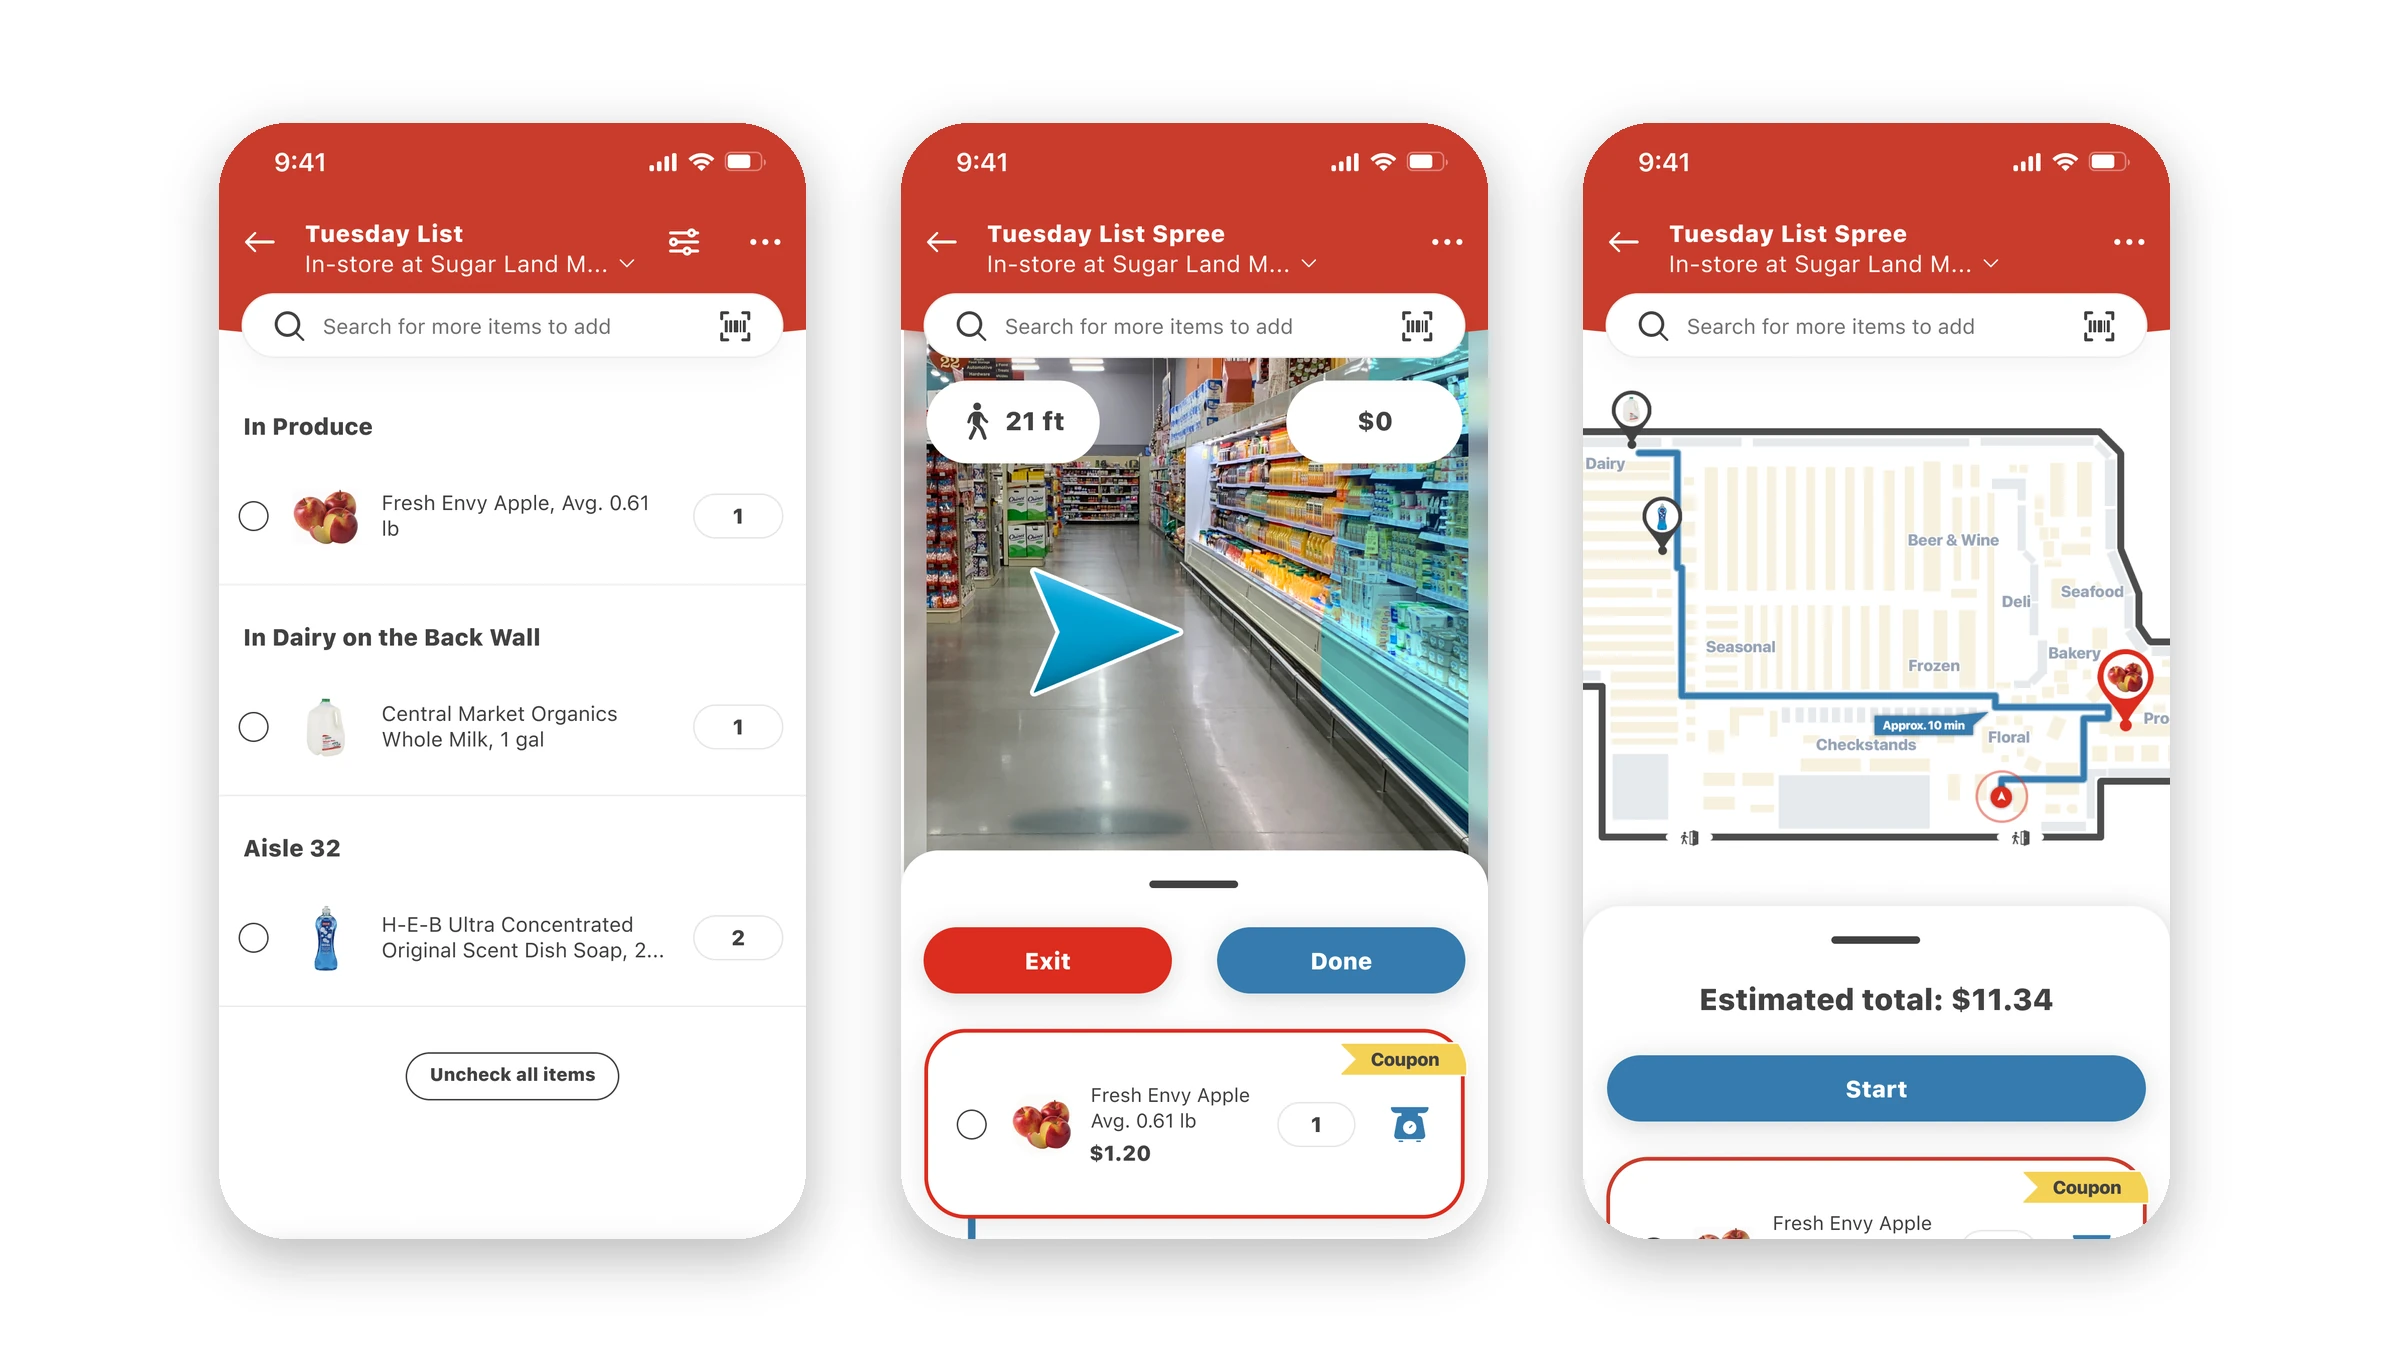
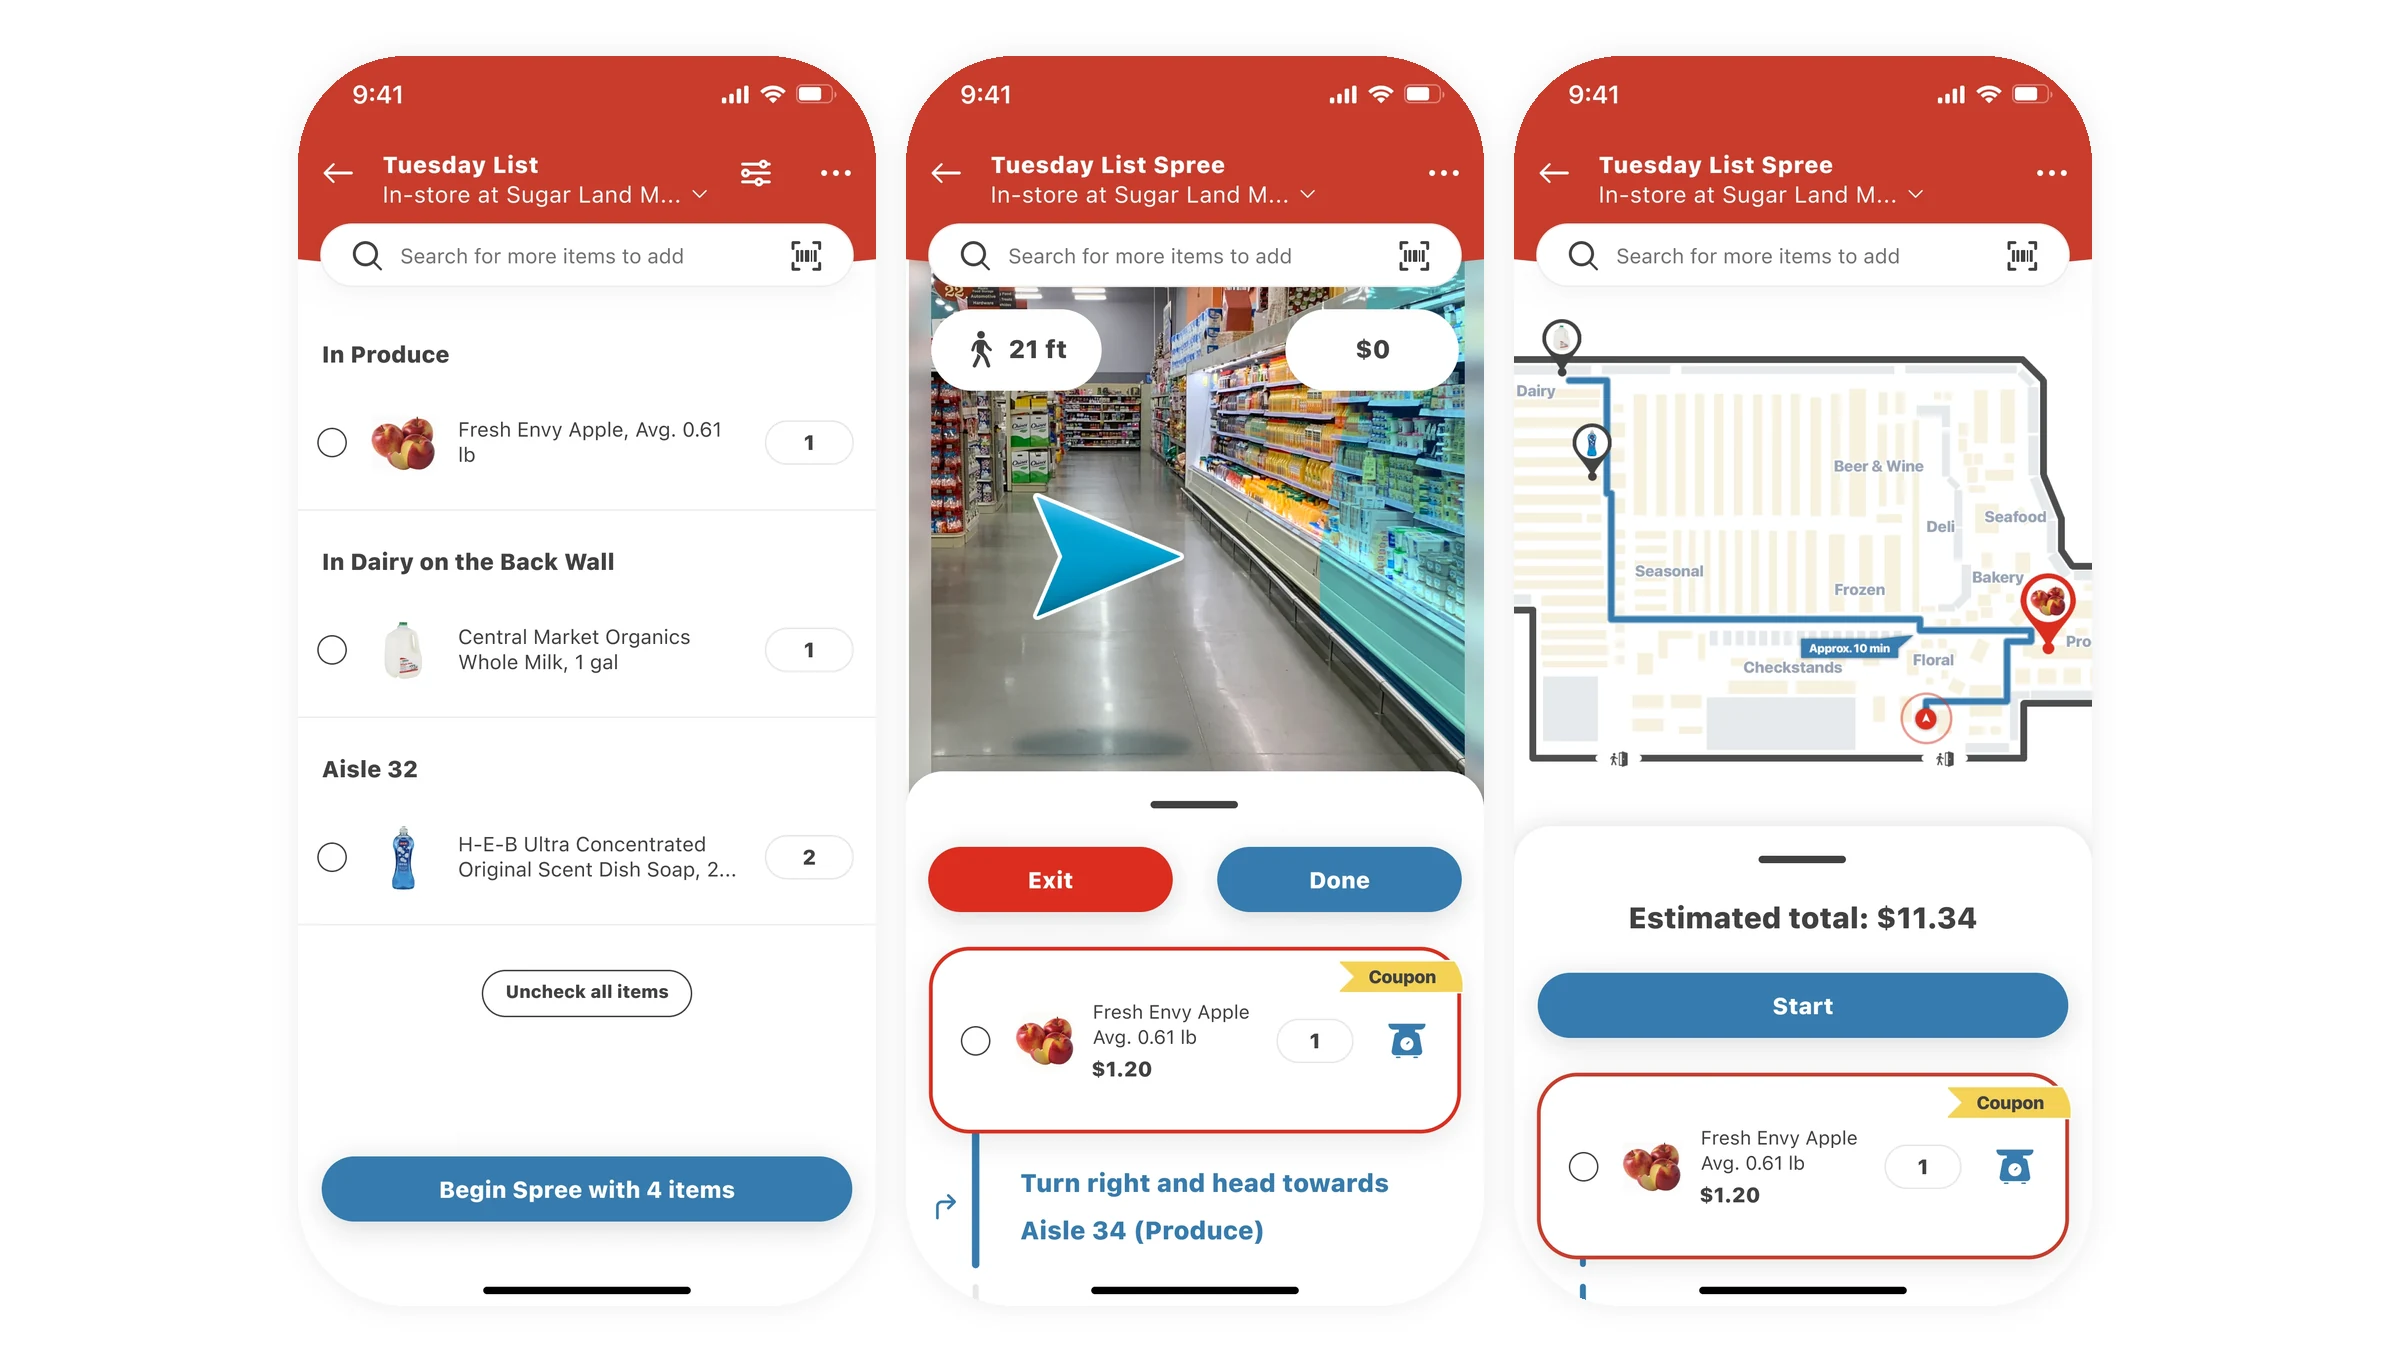
Stop cutting the bottom off the H-E-B screens
The crop was in the file, not in the CSS. cover.webp is 2390x1362, which
is the 1195/681 panel frame exactly, so object-cover trims nothing --
the composite simply laid its phones out 1405px tall on a 1362px canvas
and let them run off the bottom. Measured: 226px missing from each of
the three.

What that took off was not empty space. The first screen lost "Begin
Spree with 4 items", which is the whole point of a shopping list ready
to shop, and the second lost "Turn right and head towards Aisle 34",
which is the turn-by-turn instruction the camera view exists to show.
Both screens were chosen for the thing the crop removed.

Recomposed from the full-resolution screens that were already in the
repo -- list, route and total, 1170x2532 each -- at 578x1250, which is
as large as three whole phones fit in this frame. They are smaller than
they were and there is more white either side, and that is the trade: a
landscape frame holding portrait screens either shows less of them or
shows them smaller.

The treatment is measured off the cover it replaces rather than picked,
so it sits beside the hand-made ones: a radius of 0.185x the phone's
width, and a soft shadow with no offset reading 247/255 immediately
outside the edge and white again by 30px out. Per CLAUDE.md each screen
is masked and shadowed at composite time, because rounding a flat
composite of three phones rounds the picture, not the phones.

scripts/compose-cover.py is that composition, kept so the next cover
[…]

diff --git a/app/work/data.js b/app/work/data.js
@@ -419,7 +419,7 @@ const allWork = [
     role: "Design Exploration, User Research, Product Design",
     cover: {
       src: "/work/my-heb-app/cover.webp",
-      alt: "Three My H-E-B app screens: a shopping list, the trip drawn as a route across the store map with an estimated total, and an in-store camera view with a turn arrow and a running total",
+      alt: "Three My H-E-B app screens: a shopping list ready to start a trip, an in-store camera view with a turn arrow and a running total, and the trip drawn as a route across the store map with an estimated total",
     },
     // No `landingCover`. There used to be one, carrying a second trimmed copy
     // of the artwork, because the cover had a dark maroon ground that had to be

diff --git a/scripts/compose-cover.py b/scripts/compose-cover.py
@@ -1,0 +1,100 @@
+"""Compose a case study cover from full phone screenshots.
+
+    python3 scripts/compose-cover.py \
+        --out public/work/my-heb-app/cover.webp \
+        public/work/my-heb-app/{list,route,total}.webp
+
+Why this exists. A cover is one file -- `landingCover` is spread over `cover`,
+so the landing panel and the case study hero are always the same picture at the
+same crop, which is the precondition for the morph between them. So when a study
+wants several screens on its cover they have to be composited, and CLAUDE.md's
+rule for that is to mask and shadow each screen *at composite time*: rounding a
+flat composite rounds the outer edge of the picture rather than the phones, and
+shadowing it puts one shadow under all three.
+
+The numbers below were measured off the cover this replaced, so a regenerated
+cover looks like the hand-made ones beside it:
+
+  radius   0.185 x the phone's width
+  shadow   soft, no offset -- 247/255 immediately outside the edge, white again
+           by ~30px out at this scale
+
+The reason it was rebuilt at all: the original composite laid its phones out
+1405px tall on a 1362px canvas, so 226px of every phone was cut off. That took
+the "Begin Spree with 4 items" button off the first screen and the "Turn right
+and head towards Aisle 34" instruction off the second -- the two things those
+screens were chosen to show.
+"""
+
+import argparse
+from PIL import Image, ImageDraw, ImageFilter
+
+# The panel frame, and so the cover frame: 1195x681 at 2x.
+WIDTH, HEIGHT = 2390, 1362
+
+# Space above and below the phones. Everything else follows from it: the phones
+# are as large as fitting them whole inside the frame allows, which is smaller
+# than a composite that lets them run off the bottom and is the entire point.
+MARGIN = 56
+
+RADIUS_RATIO = 0.185
+GAP_RATIO = 0.052  # gap between phones, as a fraction of a phone's width
+
+# Matched to the measurement above: a blurred rounded rectangle at this alpha
+# reads as 247/255 against white right at the edge.
+SHADOW_ALPHA = 18
+SHADOW_BLUR = 14
+
+
+def rounded_mask(size, radius):
+    mask = Image.new("L", size, 0)
+    ImageDraw.Draw(mask).rounded_rectangle([(0, 0), (size[0] - 1, size[1] - 1)],
+                                           radius=radius, fill=255)
+    return mask
+
+
+def main():
+    ap = argparse.ArgumentParser()
+    ap.add_argument("sources", nargs="+")
+    ap.add_argument("--out", required=True)
+    ap.add_argument("--margin", type=int, default=MARGIN)
+    ap.add_argument("--quality", type=int, default=88)
+    args = ap.parse_args()
+
+    screens = [Image.open(p).convert("RGB") for p in args.sources]
+
+    phone_h = HEIGHT - 2 * args.margin
+    # Every screen is assumed to share the first one's aspect, which is true of
+    # a set of exports from one device and obvious in the output if it is not.
+    phone_w = round(phone_h * screens[0].width / screens[0].height)
+    radius = round(phone_w * RADIUS_RATIO)
+    gap = round(phone_w * GAP_RATIO)
+
+    total = len(screens) * phone_w + (len(screens) - 1) * gap
+    if total > WIDTH:
+        raise SystemExit(f"{len(screens)} phones at {phone_w}px do not fit in {WIDTH}px")
+    left = (WIDTH - total) // 2
+
+    canvas = Image.new("RGB", (WIDTH, HEIGHT), "white")
+    mask = rounded_mask((phone_w, phone_h), radius)
+
+    # One shadow per phone, drawn first so neighbours' shadows overlap cleanly.
+    shadow_layer = Image.new("RGBA", (WIDTH, HEIGHT), (0, 0, 0, 0))
+    block = Image.new("RGBA", (phone_w, phone_h), (0, 0, 0, SHADOW_ALPHA))
+    block.putalpha(mask.point(lambda v: v * SHADOW_ALPHA // 255))
+    for i in range(len(screens)):
+        shadow_layer.alpha_composite(block, (left + i * (phone_w + gap), args.margin))
+    shadow_layer = shadow_layer.filter(ImageFilter.GaussianBlur(SHADOW_BLUR))
+    canvas = Image.alpha_composite(canvas.convert("RGBA"), shadow_layer).convert("RGB")
+
+    for i, screen in enumerate(screens):
+        resized = screen.resize((phone_w, phone_h), Image.LANCZOS)
+        canvas.paste(resized, (left + i * (phone_w + gap), args.margin), mask)
+
+    canvas.save(args.out, "WEBP", quality=args.quality, method=6)
+    print(f"{args.out}  {WIDTH}x{HEIGHT}  phones {phone_w}x{phone_h} "
+          f"radius {radius} gap {gap} margins {left}/{args.margin}")
+
+
+if __name__ == "__main__":
+    main()
